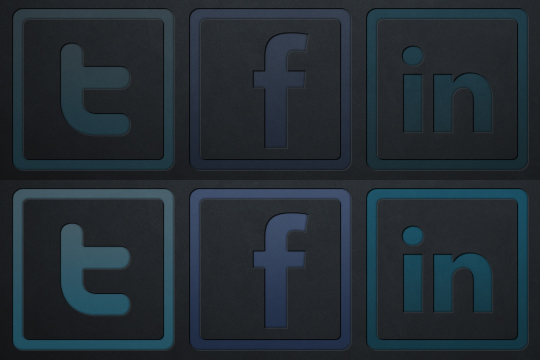
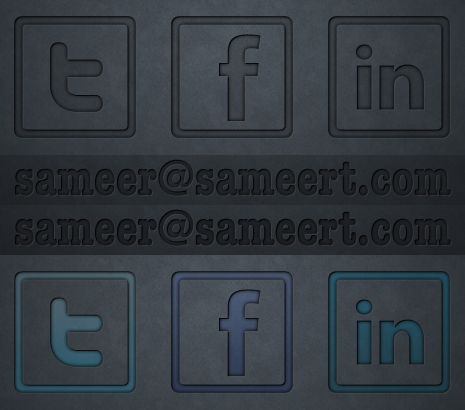
coming soon w/ links

diff --git a/css/style.css b/css/style.css
@@ -3,20 +3,19 @@ body {
 }
 
 #main {
-  width: 980px;
-  height: 450px;
+  width: 560px;
+  height: 467px;
   text-align: center;
   font-weight: bold;
-  font-size: 50px;
   margin: 0 auto;
   position: relative;
 }
 
 #main .social {
-  height: 180px;
-  width: 180px;
-  top: 248px;
-  left: 220px;
+  height: 155px;
+  width: 155px;
+  top: 197px;
+  left: 48px;
   color: transparent;
   display: block;
   position: absolute;
@@ -28,19 +27,30 @@ body {
 }
 
 #main .fb {
-  left: 400px;
-  background-position: -180px top;
+  left: 203px;
+  background-position: -155px top;
 }
 
 #main .fb:hover {
-  background-position: -180px bottom;
+  background-position: -155px bottom;
 }
 
 #main .in {
-  left: 580px;
-  background-position: -360px top;
+  left: 358px;
+  background-position: -310px top;
 }
 
 #main .in:hover {
-  background-position: -360px bottom;
+  background-position: -310px bottom;
+}
+
+#main .mail {
+  width: 465px;
+  height: 50px;
+  top: 417px;
+  background-position: left -155px;
+}
+
+#main .mail:hover {
+  background-position: left -205px;
 }

diff --git a/index.php b/index.php
@@ -32,6 +32,7 @@
       <a href="http://twitter.com/sameer0583" class="social tw" target="_blank" ></a>
       <a href="http://facebook.com/sameert" class="social fb" target="_blank" ></a>
       <a href="http://www.linkedin.com/in/sameer0583" class="social in" target="_blank" ></a>
+      <a href="mailto:sameer@sameert.com" class="social mail" target="_blank" ></a>
     </div>
 
     <footer>
